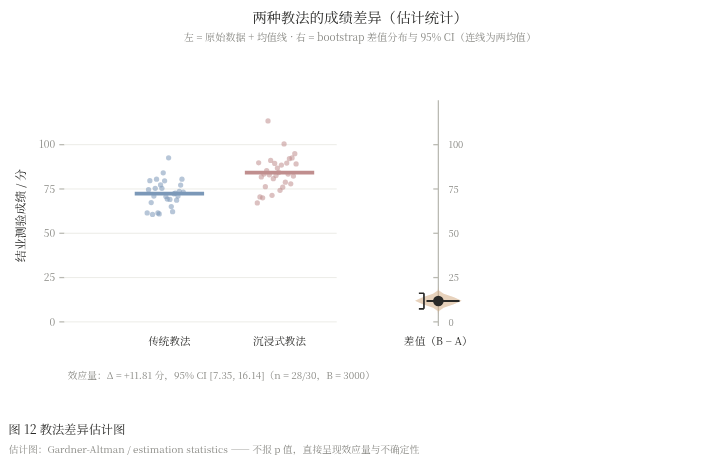
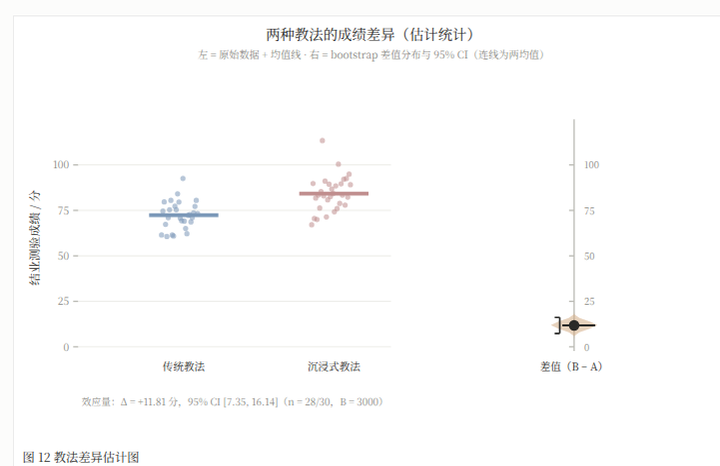
估计图布局居中：左右面板按幅面比例分布，修正组名标签偏移

diff --git a/src/app.js b/src/app.js
@@ -1,27 +1,27 @@
 /* ============ 应用外壳：图表切换 / 尺寸预设 / 配色 / 数据编辑 / 导出 ============ */
 
-import { PAL, PALETTES, FONT, setFont } from './core/svg.js?v=20261114d';
-import { draw as trend } from './charts/trend.js?v=20261114d';
-import { draw as bars } from './charts/bars.js?v=20261114d';
-import { draw as heatmap } from './charts/heatmap.js?v=20261114d';
-import { draw as radar } from './charts/radar.js?v=20261114d';
-import { draw as raincloud } from './charts/raincloud.js?v=20261114d';
-import { draw as upset } from './charts/upset.js?v=20261114d';
-import { draw as slope } from './charts/slope.js?v=20261114d';
-import { draw as trendtopic } from './charts/trendtopic.js?v=20261114d';
-import { draw as thematic } from './charts/thematic.js?v=20261114d';
-import { draw as dotplot } from './charts/dotplot.js?v=20261114d';
-import { draw as forest } from './charts/forest.js?v=20261114d';
-import { draw as estimation } from './charts/estimation.js?v=20261114d';
-import { draw as ridgeline } from './charts/ridgeline.js?v=20261114d';
-import { draw as blandaltman } from './charts/blandaltman.js?v=20261114d';
-import { draw as kaplanmeier } from './charts/kaplanmeier.js?v=20261114d';
-import { draw as roc } from './charts/roc.js?v=20261114d';
-import { draw as qq } from './charts/qq.js?v=20261114d';
-import { draw as stl } from './charts/stl.js?v=20261114d';
-import { draw as network } from './charts/network.js?v=20261114d';
-import { draw as river } from './charts/river.js?v=20261114d';
-import { exportSVG, exportPNG, exportPDF } from './export.js?v=20261114d';
+import { PAL, PALETTES, FONT, setFont } from './core/svg.js?v=20261114e';
+import { draw as trend } from './charts/trend.js?v=20261114e';
+import { draw as bars } from './charts/bars.js?v=20261114e';
+import { draw as heatmap } from './charts/heatmap.js?v=20261114e';
+import { draw as radar } from './charts/radar.js?v=20261114e';
+import { draw as raincloud } from './charts/raincloud.js?v=20261114e';
+import { draw as upset } from './charts/upset.js?v=20261114e';
+import { draw as slope } from './charts/slope.js?v=20261114e';
+import { draw as trendtopic } from './charts/trendtopic.js?v=20261114e';
+import { draw as thematic } from './charts/thematic.js?v=20261114e';
+import { draw as dotplot } from './charts/dotplot.js?v=20261114e';
+import { draw as forest } from './charts/forest.js?v=20261114e';
+import { draw as estimation } from './charts/estimation.js?v=20261114e';
+import { draw as ridgeline } from './charts/ridgeline.js?v=20261114e';
+import { draw as blandaltman } from './charts/blandaltman.js?v=20261114e';
+import { draw as kaplanmeier } from './charts/kaplanmeier.js?v=20261114e';
+import { draw as roc } from './charts/roc.js?v=20261114e';
+import { draw as qq } from './charts/qq.js?v=20261114e';
+import { draw as stl } from './charts/stl.js?v=20261114e';
+import { draw as network } from './charts/network.js?v=20261114e';
+import { draw as river } from './charts/river.js?v=20261114e';
+import { exportSVG, exportPNG, exportPDF } from './export.js?v=20261114e';
 
 const CHARTS = {
   trend: { name: '趋势图', mod: trend },
@@ -63,7 +63,7 @@ const state = {
 const $ = s => document.querySelector(s);
 
 async function loadSamples() {
-  const list = await (await fetch('./samples/index.json?v=20261114d')).json();
+  const list = await (await fetch('./samples/index.json?v=20261114e')).json();
   const sel = $('#sampleSel');
   sel.innerHTML = '';
   for (const s of list) {
@@ -78,7 +78,7 @@ async function loadSamples() {
 }
 
 async function loadSample(file, type, resetType) {
-  const j = await (await fetch('./samples/' + file + '?v=20261114d')).json();
+  const j = await (await fetch('./samples/' + file + '?v=20261114e')).json();
   if (j.type && CHARTS[j.type]) { state.type = j.type; autoSize(j.type); }
   state.data = j.data;
   state.meta = { ...j.opts };
@@ -183,7 +183,7 @@ buildUI();
 loadSamples().catch(async e => {
   /* file:// 直开时 fetch 失败 → 内嵌兜底数据 */
   console.warn(e);
-  const { FALLBACK } = await import('./fallback.js?v=20261114d');
+  const { FALLBACK } = await import('./fallback.js?v=20261114e');
   state.type = 'trend'; state.data = FALLBACK.data; state.meta = { ...FALLBACK.opts };
   syncForm(); render();
 });

diff --git a/src/charts/estimation.js b/src/charts/estimation.js
@@ -1,10 +1,10 @@
 /* ============ 估计图（Gardner-Altman：效应量 + bootstrap CI） ============ */
 /* estimation statistics 运动：不报 p 值，直接画效应大小与不确定性 */
 
-import { el, text, INK, colors } from '../core/svg.js?v=20261114d';
-import { caption, figureNote, fmt } from '../core/axis.js?v=20261114d';
-import { niceTicks, linear, kde, mulberry32 } from '../core/scale.js?v=20261114d';
-import { tip, tipHide } from '../core/tip.js?v=20261114d';
+import { el, text, INK, colors } from '../core/svg.js?v=20261114e';
+import { caption, figureNote, fmt } from '../core/axis.js?v=20261114e';
+import { niceTicks, linear, kde, mulberry32 } from '../core/scale.js?v=20261114e';
+import { tip, tipHide } from '../core/tip.js?v=20261114e';
 
 /*
  * data = {
@@ -38,15 +38,18 @@ export function draw(svg, data, o = {}) {
   boots.sort((a, b) => a - b);
   const ci = [boots[Math.floor(B_ * .025)], boots[Math.floor(B_ * .975)]];
 
-  /* 布局：左 = 两组原始数据；右 = 差值轴（约 1/3 宽） */
+  /* 布局：左 = 两组原始数据（约 6 成宽）；右 = 差值轴；整体在幅面内居中 */
   const all = A.values.concat(B.values);
   const Y = niceTicks(Math.min(0, ...all, ci[0]), Math.max(...all, ci[1]) + .001, 5);
   const footY = H - footH;
   const plotH = footY - top - 14;
   const val = linear(Y.lo, Y.hi, footY - 2, top + 14);
-  const halfW = 10.5;                              // 左面板每组点云半宽
-  const ax = 40, bx = ax + 26;                     // 两组中心
-  const dax = Math.min(W - 16, bx + halfW + 27);    // 右面板差值轴 x（离 B 组云拉开距离）
+  const mL = 16, mR = 12;                          // 左：Y 轴标签；右：差值刻度
+  const contentW = W - mL - mR;
+  const halfW = Math.min(10.5, contentW * .075);   // 每组点云半宽
+  const ax = mL + contentW * .17;                  // A 组中心
+  const bx = mL + contentW * .42;                  // B 组中心
+  const dax = mL + contentW * .82;                 // 右面板差值轴 x
 
   /* Y 轴刻度（左缘） */
   for (const t of Y.ticks) {
@@ -70,9 +73,7 @@ export function draw(svg, data, o = {}) {
     });
     const m = ii ? mB : mA;
     el('line', { x1: gx - halfW * .78, x2: gx + halfW * .78, y1: val(m), y2: val(m), stroke: color, 'stroke-width': .9 }, svg);
-    const tl = text(svg, gx, footY + 3.4, g.name, { size: 2.5, anchor: 'middle', fill: INK.base });
-    tl.setAttribute('transform', `translate(${-tl.getComputedTextLength() / 2 + (g.name.length * 1.25)} 0)`);
-    const mm = null;
+    text(svg, gx, footY + 3.4, g.name, { size: 2.5, anchor: 'middle', fill: INK.base });
     return m;
   };
   drawGroup(A, ax, cs[0], 0);

diff --git a/src/charts/stl.js b/src/charts/stl.js
@@ -1,10 +1,10 @@
 /* ============ 时间序列分解（观测 = 趋势 + 季节 + 残差，经典分解） ============ */
 /* 四联面板：趋势漂移、季节模式、残差白噪——时间序列的第一诊断图 */
 
-import { el, text, INK, colors } from '../core/svg.js?v=20261114d';
-import { caption, figureNote, fmt } from '../core/axis.js?v=20261114d';
-import { niceTicks, linear, smoothPath } from '../core/scale.js?v=20261114d';
-import { tip, tipHide } from '../core/tip.js?v=20261114d';
+import { el, text, INK, colors } from '../core/svg.js?v=20261114e';
+import { caption, figureNote, fmt } from '../core/axis.js?v=20261114e';
+import { niceTicks, linear, smoothPath } from '../core/scale.js?v=20261114e';
+import { tip, tipHide } from '../core/tip.js?v=20261114e';
 
 /*
  * data = { t: [0..n-1 序号或年月数值], values: [..], period: 12 }

diff --git a/src/charts/kaplanmeier.js b/src/charts/kaplanmeier.js
@@ -1,10 +1,10 @@
 /* ============ Kaplan-Meier 生存曲线（时间到事件 + 删失 + log-rank + 风险表） ============ */
 /* Kaplan & Meier 1958 —— 生存分析的标准图， Greenwood CI · Mantel-Haenszel log-rank */
 
-import { el, text, INK, colors } from '../core/svg.js?v=20261114d';
-import { caption, figureNote, fmt } from '../core/axis.js?v=20261114d';
-import { niceTicks, linear } from '../core/scale.js?v=20261114d';
-import { tip, tipHide } from '../core/tip.js?v=20261114d';
+import { el, text, INK, colors } from '../core/svg.js?v=20261114e';
+import { caption, figureNote, fmt } from '../core/axis.js?v=20261114e';
+import { niceTicks, linear } from '../core/scale.js?v=20261114e';
+import { tip, tipHide } from '../core/tip.js?v=20261114e';
 
 /* 误差函数补（log-rank p 值用， A&S 7.1.26） */
 const erfc = x => {

diff --git a/src/charts/qq.js b/src/charts/qq.js
@@ -1,10 +1,10 @@
 /* ============ Q-Q 图（分布正态性检查：样本分位数 vs 理论分位数） ============ */
 /* 检查分布假设的第一图 —— 点贴线 = 正态 */
 
-import { el, text, INK, colors } from '../core/svg.js?v=20261114d';
-import { caption, figureNote, fmt } from '../core/axis.js?v=20261114d';
-import { niceTicks, linear } from '../core/scale.js?v=20261114d';
-import { tip, tipHide } from '../core/tip.js?v=20261114d';
+import { el, text, INK, colors } from '../core/svg.js?v=20261114e';
+import { caption, figureNote, fmt } from '../core/axis.js?v=20261114e';
+import { niceTicks, linear } from '../core/scale.js?v=20261114e';
+import { tip, tipHide } from '../core/tip.js?v=20261114e';
 
 /* 标准正态分位数函数 Φ⁻¹（A&S 26.2.23，|ε| < 4.5e-4，画图足够） */
 const qnorm = p => {

diff --git a/src/charts/roc.js b/src/charts/roc.js
@@ -1,10 +1,10 @@
 /* ============ ROC 曲线（诊断准确性 + AUC + Youden 最佳切点） ============ */
 /* signal detection —— 灵敏度 / 特异度权衡的标准呈现 */
 
-import { el, text, INK, colors } from '../core/svg.js?v=20261114d';
-import { caption, figureNote, fmt } from '../core/axis.js?v=20261114d';
-import { linear, mulberry32 } from '../core/scale.js?v=20261114d';
-import { tip, tipHide } from '../core/tip.js?v=20261114d';
+import { el, text, INK, colors } from '../core/svg.js?v=20261114e';
+import { caption, figureNote, fmt } from '../core/axis.js?v=20261114e';
+import { linear, mulberry32 } from '../core/scale.js?v=20261114e';
+import { tip, tipHide } from '../core/tip.js?v=20261114e';
 
 /* 秩法 AUC（含并列平均秩） */
 function aucRank(pos, neg) {

diff --git a/src/charts/ridgeline.js b/src/charts/ridgeline.js
@@ -1,10 +1,10 @@
 /* ============ 山脊图（多分布错层叠放：分布随类别/时间的漂移） ============ */
 /* ridgeline / joyplot —— 20 个小直方图的优雅替身 */
 
-import { el, text, INK, colors } from '../core/svg.js?v=20261114d';
-import { caption, figureNote, fmt } from '../core/axis.js?v=20261114d';
-import { niceTicks, linear, kde, smoothPath } from '../core/scale.js?v=20261114d';
-import { tip, tipHide } from '../core/tip.js?v=20261114d';
+import { el, text, INK, colors } from '../core/svg.js?v=20261114e';
+import { caption, figureNote, fmt } from '../core/axis.js?v=20261114e';
+import { niceTicks, linear, kde, smoothPath } from '../core/scale.js?v=20261114e';
+import { tip, tipHide } from '../core/tip.js?v=20261114e';
 
 /*
  * data = {

diff --git a/src/charts/blandaltman.js b/src/charts/blandaltman.js
@@ -1,10 +1,10 @@
 /* ============ Bland-Altman 图（两种测量的一致性：Tukey 均值-差图） ============ */
 /* Bland & Altman 1986, The Lancet —— 方法学比对/评分员信度的标准图 */
 
-import { el, text, INK, colors } from '../core/svg.js?v=20261114d';
-import { caption, figureNote, fmt } from '../core/axis.js?v=20261114d';
-import { niceTicks, linear } from '../core/scale.js?v=20261114d';
-import { tip, tipHide } from '../core/tip.js?v=20261114d';
+import { el, text, INK, colors } from '../core/svg.js?v=20261114e';
+import { caption, figureNote, fmt } from '../core/axis.js?v=20261114e';
+import { niceTicks, linear } from '../core/scale.js?v=20261114e';
+import { tip, tipHide } from '../core/tip.js?v=20261114e';
 
 /*
  * data = {

diff --git a/src/charts/raincloud.js b/src/charts/raincloud.js
@@ -1,10 +1,10 @@
 /* ============ 雨云图（半小提琴 + 箱线 + 原始散点：新一代柱状图替身） ============ */
 /* Allen et al. 2019, Raincloud plots: a multi-platform tool... */
 
-import { el, text, INK, colors } from '../core/svg.js?v=20261114d';
-import { caption, figureNote, fmt } from '../core/axis.js?v=20261114d';
-import { niceTicks, linear } from '../core/scale.js?v=20261114d';
-import { tip, tipHide } from '../core/tip.js?v=20261114d';
+import { el, text, INK, colors } from '../core/svg.js?v=20261114e';
+import { caption, figureNote, fmt } from '../core/axis.js?v=20261114e';
+import { niceTicks, linear } from '../core/scale.js?v=20261114e';
+import { tip, tipHide } from '../core/tip.js?v=20261114e';
 
 /*
  * data = {

diff --git a/src/charts/forest.js b/src/charts/forest.js
@@ -1,10 +1,10 @@
 /* ============ 森林图（元分析合并效应：证据综合的招牌图） ============ */
 /* 逆方差权重 + DerSimonian-Laird 随机效应 + Q / I² 异质性检验 */
 
-import { el, text, INK, colors } from '../core/svg.js?v=20261114d';
-import { caption, figureNote, fmt } from '../core/axis.js?v=20261114d';
-import { niceTicks, linear } from '../core/scale.js?v=20261114d';
-import { tip, tipHide } from '../core/tip.js?v=20261114d';
+import { el, text, INK, colors } from '../core/svg.js?v=20261114e';
+import { caption, figureNote, fmt } from '../core/axis.js?v=20261114e';
+import { niceTicks, linear } from '../core/scale.js?v=20261114e';
+import { tip, tipHide } from '../core/tip.js?v=20261114e';
 
 /*
  * data = {

diff --git a/src/charts/thematic.js b/src/charts/thematic.js
@@ -1,10 +1,10 @@
 /* ============ 战略坐标图（密度 × 向心性四象限：文献计量主题定位） ============ */
 /* Cobo et al. 2011, bibliometrix thematic map */
 
-import { el, text, INK, colors } from '../core/svg.js?v=20261114d';
-import { caption, figureNote, fmt } from '../core/axis.js?v=20261114d';
-import { niceTicks, linear } from '../core/scale.js?v=20261114d';
-import { tip, tipHide } from '../core/tip.js?v=20261114d';
+import { el, text, INK, colors } from '../core/svg.js?v=20261114e';
+import { caption, figureNote, fmt } from '../core/axis.js?v=20261114e';
+import { niceTicks, linear } from '../core/scale.js?v=20261114e';
+import { tip, tipHide } from '../core/tip.js?v=20261114e';
 
 /*
  * data = {

diff --git a/src/charts/upset.js b/src/charts/upset.js
@@ -1,10 +1,10 @@
 /* ============ UpSet 图（集合交集：韦恩图的现代替身） ============ */
 /* Lex et al. 2014, Nature Methods —— 支持任意多集合的交集规模排序 */
 
-import { el, text, INK, colors } from '../core/svg.js?v=20261114d';
-import { caption, figureNote, fmt } from '../core/axis.js?v=20261114d';
-import { linear } from '../core/scale.js?v=20261114d';
-import { tip, tipHide } from '../core/tip.js?v=20261114d';
+import { el, text, INK, colors } from '../core/svg.js?v=20261114e';
+import { caption, figureNote, fmt } from '../core/axis.js?v=20261114e';
+import { linear } from '../core/scale.js?v=20261114e';
+import { tip, tipHide } from '../core/tip.js?v=20261114e';
 
 /*
  * data = {
